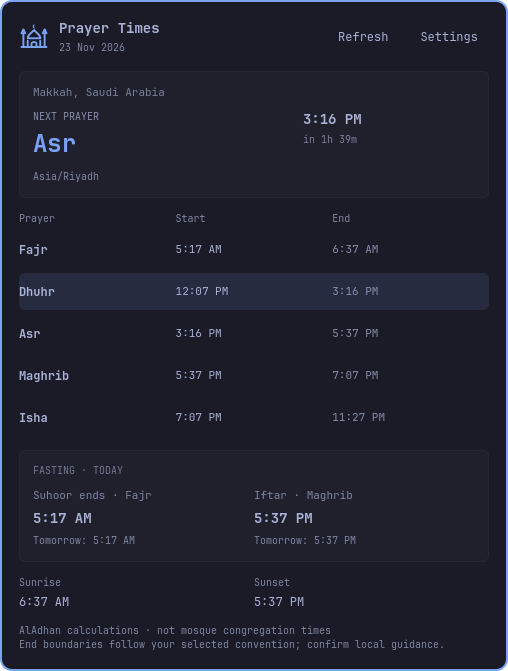
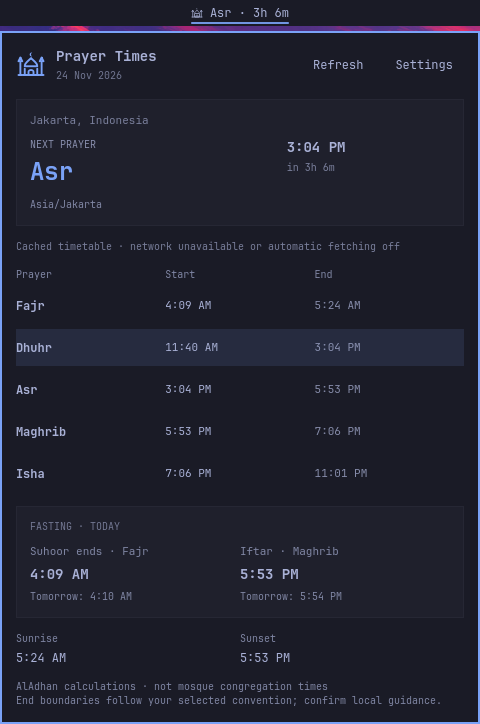
Showcase Prayer Times and document agent workflows

diff --git a/README.md b/README.md
@@ -1,56 +1,79 @@
 # Prayer Times for Omarchy
 
-An optional Quickshell bar widget for daily Islamic prayers and fasting. The bar shows the time until the next prayer; the popup brings together today's five prayer windows, today's and tomorrow's fasting boundaries, sunrise, and sunset. The date uses **DD MMM YYYY** in the selected location's timezone.
+See how long until the next prayer without leaving the Omarchy bar. Open the widget for all five daily prayer windows, today's and tomorrow's suhoor and iftar times, and today's sunrise and sunset.
+
+[Install](#install) · [Settings](#settings) · [Privacy](#privacy-and-reliability) · [Development](#development)
+
+## Screenshots
+
+![The Omarchy bar counts down to Asr above the Prayer Times popup, with prayer windows, suhoor, iftar, sunrise, and sunset for Jakarta.](preview.png)
+
+| Location settings | Calculation settings |
+| --- | --- |
+| ![The Location tab shows manual city and country entry, with automatic fetching turned off.](docs/screenshots/location.png) | ![The Calculation tab shows the prayer method, Asr, high-latitude and Isha options, and minute offsets for each prayer.](docs/screenshots/calculation.png) |
+
+*Captured in Omarchy's Quattro shell using sample timings for Jakarta. The widget follows your shell theme; these example times are not a live timetable.*
 
 ## Install
 
-Requires Omarchy 4.5 with the Quattro bar, Python 3.11+, and system timezone data (`tzdata`). No pip packages, API key, elevated permissions, or changes to stock Omarchy files are required.
+**Requires:** Omarchy 4.5 with the Quattro bar, Python 3.11+, and system timezone data (`tzdata`). No pip packages, API key, admin permissions, or changes to packaged Omarchy files are needed.
 
-Review the source before enabling this plugin. Omarchy plugins run with your user permissions, not in a sandbox. Install using Omarchy's normal confirmation and placement prompts:
+Review the source before enabling the plugin. Omarchy plugins run with your user permissions, not in a sandbox. Follow Omarchy's confirmation and placement prompts:
 
 ```sh
 omarchy plugin add https://github.com/smmmsmo/omarchy-prayer-times.git --enable
 ```
 
-Click the mosque icon, open **Settings**, and choose an approximate IP location, a city and country (plus an optional state/region), or exact decimal coordinates. Choose **Apply settings**, then **Refresh** to fetch the timetable. For less location sharing, use a city instead of exact coordinates or IP lookup. **Automatic fetching** is off for new installations. Right-click the widget for Settings; middle-click to refresh. Move it with `omarchy bar move mo.prayer`.
+1. Click the mosque icon and open **Settings**.
+2. Pick a location. **Manual · city and country** skips IP geolocation and doesn't require exact coordinates. A state or region is optional.
+3. Choose **Apply settings**, then **Refresh** to fetch the timetable. **Automatic fetching** is off by default.
 
-**Upgrading from `mo.namaz` (1.1.2 or earlier):** Omarchy treats the new ID as a separate plugin. Note your current widget settings, remove the old copy with `omarchy plugin remove mo.namaz`, and then run the install command above. Reapply any settings you want to keep. Don't use `omarchy plugin update mo.namaz` to switch IDs.
+**Shortcuts:** Right-click for Settings, middle-click to refresh, or run `omarchy bar move mo.prayer --section right` to move it to the right side of the bar.
+
+## Settings
+
+| Tab | What you can change |
+| --- | --- |
+| **Location** | Approximate IP location, manual city and country, or exact decimal coordinates with an optional label. |
+| **Calculation** | AlAdhan's regional recommendation or one of 23 named methods, including Karachi, ISNA, MWL, Umm al-Qura, Moonsighting Committee, Tehran, and Jaʿfari. Choose Standard or Hanafi Asr, one of four high-latitude options, and the twilight convention for the Moonsighting Committee method. |
+| **Display** | 12- or 24-hour time and automatic fetching. English, Bengali, and Arabic text and number formatting follow Omarchy's language setting live; unsupported languages use English text. |
+
+The **Calculation** tab also controls the displayed Isha end: the midpoint from sunset to next Fajr, or next Fajr as an outer limit. Per-prayer adjustments range from −30 to +30 minutes; use them only to match a trusted local timetable.
+
+### Reading the timetable
+
+- The date is shown as `DD MMM YYYY`. The date, daylight saving time, and midnight rollover follow the selected location, not your computer's timezone.
+- Fajr is the suhoor cutoff, not sunrise. Maghrib is the iftar time and is shown separately from astronomical sunset. Missing events, including polar-day or polar-night gaps, appear as `—`.
+- These are **calculated windows, not mosque congregation times or religious rulings**. Confirm the timetable and the end boundaries with a local mosque or prayer authority, especially during Ramadan.
+
+## Privacy and reliability
+
+No analytics, telemetry, accounts, separate background service, API key, or GPS access. A fresh install makes no network requests until you choose **Refresh** or turn on **Automatic fetching**.
+
+| HTTPS destination | When contacted | What it receives |
+| --- | --- | --- |
+| `geo.omarchy.org` | Only for approximate IP location | Request IP, used to look up an approximate location. |
+| `api.aladhan.com` | When fetching a timetable | Request IP, selected city/region/country or coordinates, and calculation settings. Approximate IP coordinates are rounded first. The optional location label and local offsets are not sent. |
+
+- **Refresh behavior:** With automatic fetching on, the widget checks every 15 minutes and reuses cached schedules and approximate IP location when possible. The IP result is reused for up to an hour. Startup, applying settings, and local midnight can also trigger checks. Manual **Refresh** bypasses the timetable cache for today and tomorrow. With automatic fetching off, background checks use only the cache.
+- **Local settings:** **Apply settings** saves the widget's preferences to Omarchy's local `shell.json`. The helper receives settings via standard input, not command-line arguments. Review the file before sharing it.
+- **Offline cache:** `${XDG_CACHE_HOME:-$HOME/.cache}/omarchy/namaz/v2` stores validated times, timezone, and method, plus approximate location in IP mode only. It omits raw provider metadata and does not duplicate manually entered locations. Files are written privately and atomically. Entries older than seven days are ignored and pruned during online refresh. An extra day is prefetched for offline rollover. Cached results are labeled and must match the location, settings, and date.
 
 ## Update or remove
 
 ```sh
 omarchy plugin update mo.prayer  # Update a Git-managed install
-omarchy plugin disable mo.prayer # Hide it without uninstalling
-omarchy plugin remove mo.prayer  # Disable and uninstall via Omarchy's confirmation prompt
+omarchy plugin disable mo.prayer # Hide without uninstalling
+omarchy plugin remove mo.prayer  # Uninstall through Omarchy's confirmation prompt
 ```
 
-After removal, Omarchy leaves separately stored timetable data alone. To erase this plugin's cache too, inspect and confirm removal of the dedicated cache directory:
+**Migrating from `mo.namaz` (1.1.2 or earlier):** Omarchy treats `mo.prayer` as a separate plugin. Note your settings, remove the old copy with `omarchy plugin remove mo.namaz`, then [install `mo.prayer`](#install) and reapply your settings. `omarchy plugin update mo.namaz` does not switch IDs.
+
+Uninstalling leaves the timetable cache alone. To delete it too, review and confirm removal of this plugin's cache directory:
 
 ```sh
 rm -ri -- "${XDG_CACHE_HOME:-$HOME/.cache}/omarchy/namaz"
 ```
-
-These commands do not remove unrelated bar widgets or Omarchy settings.
-
-## Calculation options
-
-- AlAdhan's location-based recommendation or one of 23 named methods, including Karachi, ISNA, MWL, Umm al-Qura, Moonsighting Committee, Tehran and Jaʿfari.
-- Standard or Hanafi Asr, four high-latitude options, and Moonsighting Committee twilight selection.
-- Per-prayer offsets from −30 to +30 minutes. Use only to match a trusted local timetable.
-- Isha end at the midpoint from sunset to next Fajr, or at next Fajr as an outer limit.
-- 12-hour and 24-hour time, live locale formatting, and English, Bengali, and Arabic UI catalogs. Other languages fall back to English.
-
-Dates, DST, and rollover use the chosen location rather than the computer's timezone. The timetable distinguishes Fajr (suhoor cutoff) from sunrise, and Maghrib (iftar) from astronomical sunset. These are calculated boundaries, **not mosque congregation times or religious rulings**. The end column does not reflect every school's jurisprudence; verify with a local mosque or prayer authority, especially during Ramadan. Polar-day/night gaps are shown as `—`, not substituted with guessed fasting times.
-
-## Privacy and reliability
-
-No analytics, telemetry, accounts, background service, or API key. The plugin does not request GPS access. Only two fixed HTTPS services are used: `geo.omarchy.org` in IP mode, which sees the request's IP and returns an approximate location, and `api.aladhan.com` for timings. Each request exposes its source IP to the destination; AlAdhan also receives the selected city/region/country or coordinates and calculation settings, but not the optional location label or local offsets. IP mode rounds the returned coordinates before sending them to AlAdhan. City and coordinate modes skip the IP lookup entirely.
-
-With automatic fetching enabled, an internal check runs every 15 minutes; cached daily schedules are reused and IP location is reused for up to an hour. Settings, startup, and the location's midnight can also trigger checks. **Refresh** bypasses today's and tomorrow's timetable cache. With automatic fetching off, background checks are cache-only.
-
-Location and calculation preferences are saved only when you choose **Apply settings**, in the widget's entry in Omarchy's local `shell.json`. The helper receives settings via standard input rather than command-line arguments. Don't commit or share your personal `shell.json` without reviewing it first.
-
-The local cache under `${XDG_CACHE_HOME:-$HOME/.cache}/omarchy/namaz/v2` keeps validated times, timezone, method, and (in IP mode only) the approximate location needed to reuse those times. New entries omit raw provider metadata and do not duplicate a manually entered location. Cache files are written privately and atomically. Entries older than seven days are ignored and pruned during online refresh; you can delete the cache at any time using the removal steps. A future day is prefetched so the timetable can roll over offline. Cached times are labeled and only shown for the matching location, settings, and date.
 
 ## Development
 
@@ -58,4 +81,9 @@ The local cache under `${XDG_CACHE_HOME:-$HOME/.cache}/omarchy/namaz/v2` keeps v
 ./test/all
 ```
 
-Tests need Python, timezone data, and Node.js, and run without network access. Omarchy's manifest validator also runs when installed. The CI workflow exercises supported Python versions. See [submission notes](SUBMISSION.md) for the marketplace handoff and manual UI checks.
+The suite runs without network access and uses Python, Node.js, and `tzdata`. It also validates the manifest when the Omarchy CLI is available.
+
+- [AGENTS.md](AGENTS.md) — repository map, development guardrails, and checks for coding agents.
+- [Development guide](docs/development.md) — data flow, manual smoke tests, and screenshot guidance.
+- [Submission notes](SUBMISSION.md) — Omarchy marketplace and upstream handoff.
+- [Security policy](SECURITY.md) · [MIT license](LICENSE)

diff --git a/docs/development.md b/docs/development.md
@@ -1,0 +1,41 @@
+# Development guide
+
+For the file map and invariants, start with [AGENTS.md](../AGENTS.md). The [README](../README.md) is the user-facing reference; [SUBMISSION.md](../SUBMISSION.md) covers marketplace review.
+
+## How a timetable reaches the bar
+
+1. **The shell hosts the widget.** Omarchy loads `BarWidget.qml` from `manifest.json` and supplies the widget's settings. `PrayerSettings.qml` edits a draft; only **Apply settings** persists it in the bar layout entry.
+2. **The widget chooses the fetch mode.** `BarWidget.qml` starts `python3 -B fetch.py`, passing settings on stdin. With automatic fetching off it uses `--offline` for background checks. **Refresh** uses `--force`. A result for superseded settings is ignored.
+3. **The helper resolves and validates schedules.** `fetch.py` fetches or reuses provider schedules, resolves the location's timezone, builds prayer windows and fasting boundaries, and emits a schema-2 report. Today's and tomorrow's schedules supply the next-prayer countdown and fasting preview. The extra prefetched day helps preserve tomorrow's preview after offline midnight rollover.
+4. **The UI renders the validated report.** `Model.js` checks the report shape, selects the first future event from the sorted schedule, and formats the supplied local clock values. `BarWidget.qml` checks the report's validity window and `PrayerTimetable.qml` displays windows, cache status, and unavailable events.
+
+## Automated checks
+
+From the repository root:
+
+```sh
+./test/all
+```
+
+The runner executes the Python tests, then passes a Python-generated report to the Node.js tests to check the backend/frontend contract. Provider responses are mocked. CI tests Python 3.11–3.13 with Node.js 22. If an Omarchy install is available, the runner also checks `manifest.json` with `omarchy plugin validate`.
+
+## Manual checks on Quattro
+
+Use a disposable session or test profile with the current checkout, not a personal install. In that session, `omarchy shell mo.prayer status` reports whether the widget is open, ready, or loading, plus its displayed date and error code. It does not report the configured location.
+
+| Area | Verify |
+| --- | --- |
+| First run and refresh | Start with an empty cache. No requests should occur until **Refresh** or **Automatic fetching** is enabled. Middle-click should behave like **Refresh**. Restart with automatic fetching off and a matching cache; the cached label should appear. |
+| Settings | Try IP, manual city, and coordinates. **Apply settings** persists, **Cancel** discards edits, and the 12/24-hour clock changes without fetching. Use sample locations, not private coordinates, for any online check. |
+| Layout and input | Open from a horizontal and a vertical bar. Check the icon, horizontal countdown, right-click settings, keyboard access, and Escape. The popup should scroll on a short display without hiding controls permanently. |
+| Time and missing events | Use a location whose date differs from the desktop's. Check a single-digit day (`05 Jan 2027` in English), a DST transition, and a high-latitude schedule with missing events. Unavailable times must render as `—`, not guessed fasting times. |
+| Locales and theme | Switch between English, Bengali, and Arabic without restarting. Check digits, text fit, and Arabic mirroring. Confirm the popup and bar icon use the active theme. |
+
+## Refreshing the screenshots
+
+The gallery uses real captures of the Quattro bar and popup with sample data, not mockups. Keep the primary screenshot at [`preview.png`](../preview.png) and other views in [`docs/screenshots/`](screenshots/).
+
+1. Load the current checkout in a disposable desktop or private compositor. Use an isolated cache and a public example city; keep automatic fetching off. For a fully offline capture, the `test_offline_midnight_rollover` test in [`tests/test_backend.py`](../tests/test_backend.py) shows how the helper seeds and reuses cached sample days.
+2. Capture the full timetable including the bar countdown, then open **Settings** and capture the **Location** and **Calculation** tabs. On an Omarchy desktop, `omarchy capture screenshot region save` can save just the selected region.
+3. Crop to the relevant UI and strip image metadata before committing. Check that text is readable, that the screenshots share a theme and location, and that no notifications, personal desktop content, or private settings are visible.
+4. Update the [README gallery](../README.md#screenshots) and its alt text if a view or filename changes. Label sample timings as examples, not a live timetable.

diff --git a/AGENTS.md b/AGENTS.md
@@ -1,0 +1,29 @@
+# Working on Prayer Times
+
+This is `mo.prayer`, an optional bar widget for Omarchy 4.5's Quattro shell. It is not a standalone app or part of Omarchy core. The runtime is QML/JavaScript plus Python 3.11+ and system `tzdata`; Node.js is only for tests.
+
+## Where to start
+
+| If you are changing… | Start here |
+| --- | --- |
+| Plugin metadata, entry point, or defaults | `manifest.json`, then `BarWidget.qml` |
+| Bar icon, countdown, panel lifecycle, or refresh orchestration | `BarWidget.qml`, `PrayerIcon.qml` |
+| Timetable or settings layout | `PrayerTimetable.qml`, `PrayerSettings.qml`, `SectionCard.qml`, `PlainLabel.qml` |
+| Time formatting, settings projection, or report validation | `Model.js`, `tests/test_model.cjs` |
+| Provider requests, cache, timezone handling, or prayer windows | `fetch.py`, `tests/test_backend.py` |
+| UI text | `i18n/en.json`, `i18n/bn.json`, `i18n/ar.json` |
+| Screenshots, user docs, or marketplace handoff | `preview.png`, `docs/screenshots/`, `README.md`, `SUBMISSION.md` |
+
+## Contracts to preserve
+
+- `BarWidget.qml` passes a settings JSON line to `fetch.py` on stdin. The helper emits one schema-2 JSON report; `Model.js` validates it before the UI uses it. Update both sides and the contract test if the report changes.
+- Keep defaults aligned across the manifest, `Model.requestSettings()` and `fetch.config()` for the settings each layer owns. `hour24` is display-only. `mo.prayer` is the installed ID; `mo.namaz` is the legacy ID, and `omarchy/namaz/v2` remains the cache path.
+- Keep automatic fetching off by default. Startup and background checks must stay cache-only unless opted in. Keep HTTPS requests bounded and restricted to the documented hosts; never put private settings on argv or add personal locations, cache files, or a real `shell.json` to fixtures or screenshots.
+- Use the selected location's civil date and timezone, not the computer's. Missing boundaries stay `null` and display as `—`; never invent a time or present a calculation as a religious ruling.
+- Use the shell's `qs.Commons` and `qs.Ui` for styling and controls. Render untrusted text with `PlainLabel.qml` or an explicitly plain-text sink. For a shared control that cannot enforce plain text, neutralize markup first and add regression coverage. Keep translatable strings whole and preserve `%1`-style placeholders.
+
+## Before handing off
+
+1. Run `./test/all`. It needs Python, `tzdata`, and Node.js; it does not contact the live APIs. It also runs `omarchy plugin validate` if available.
+2. For UI changes, follow the [manual checks and screenshot guide](docs/development.md). State which checks you could not run. The offline suite does not exercise QML rendering.
+3. For settings or network behavior changes, update the [user docs](README.md) alongside the tests. Do not edit the user's installed Omarchy config or publish changes unless asked.

diff --git a/SUBMISSION.md b/SUBMISSION.md
@@ -12,13 +12,8 @@ The plugin uses the existing bar-widget manifest and UI kit; no changes to Omarc
 
 ## Reviewer checklist
 
-- Run `./test/all` and `omarchy plugin validate .`.
-- Test that a new install makes no network requests until Refresh or automatic fetching is enabled.
-- Open the card on a horizontal and vertical bar; confirm the mosque icon is legible at both sizes and uses theme foreground.
-- Switch between IP, city and coordinates. Confirm Apply persists and Cancel leaves settings unchanged.
-- Verify a remote location whose civil date differs from the computer's. Verify a date with a single-digit day renders `05 Jan 2027`.
-- Try a DST boundary and a high-latitude summer timetable; confirm missing events do not produce a fasting time.
-- Switch to Arabic and verify label/layout mirroring; switch to Bengali and confirm digits and translated labels.
-- Review calculated time disclaimers and API disclosure; confirm no default bar entry will be installed upstream.
+- Run `./test/all` and `omarchy plugin validate .` on Omarchy.
+- Follow the [Quattro manual checks](docs/development.md#manual-checks-on-quattro), including first-run network behavior, display and settings, timezone edge cases, and locale rendering.
+- Check the [screenshots](README.md#screenshots), calculated-time disclaimers, and API disclosure. Confirm no default bar entry will be installed upstream.
 
 Publishing the standalone plugin on GitHub does not submit it to Omarchy upstream.
